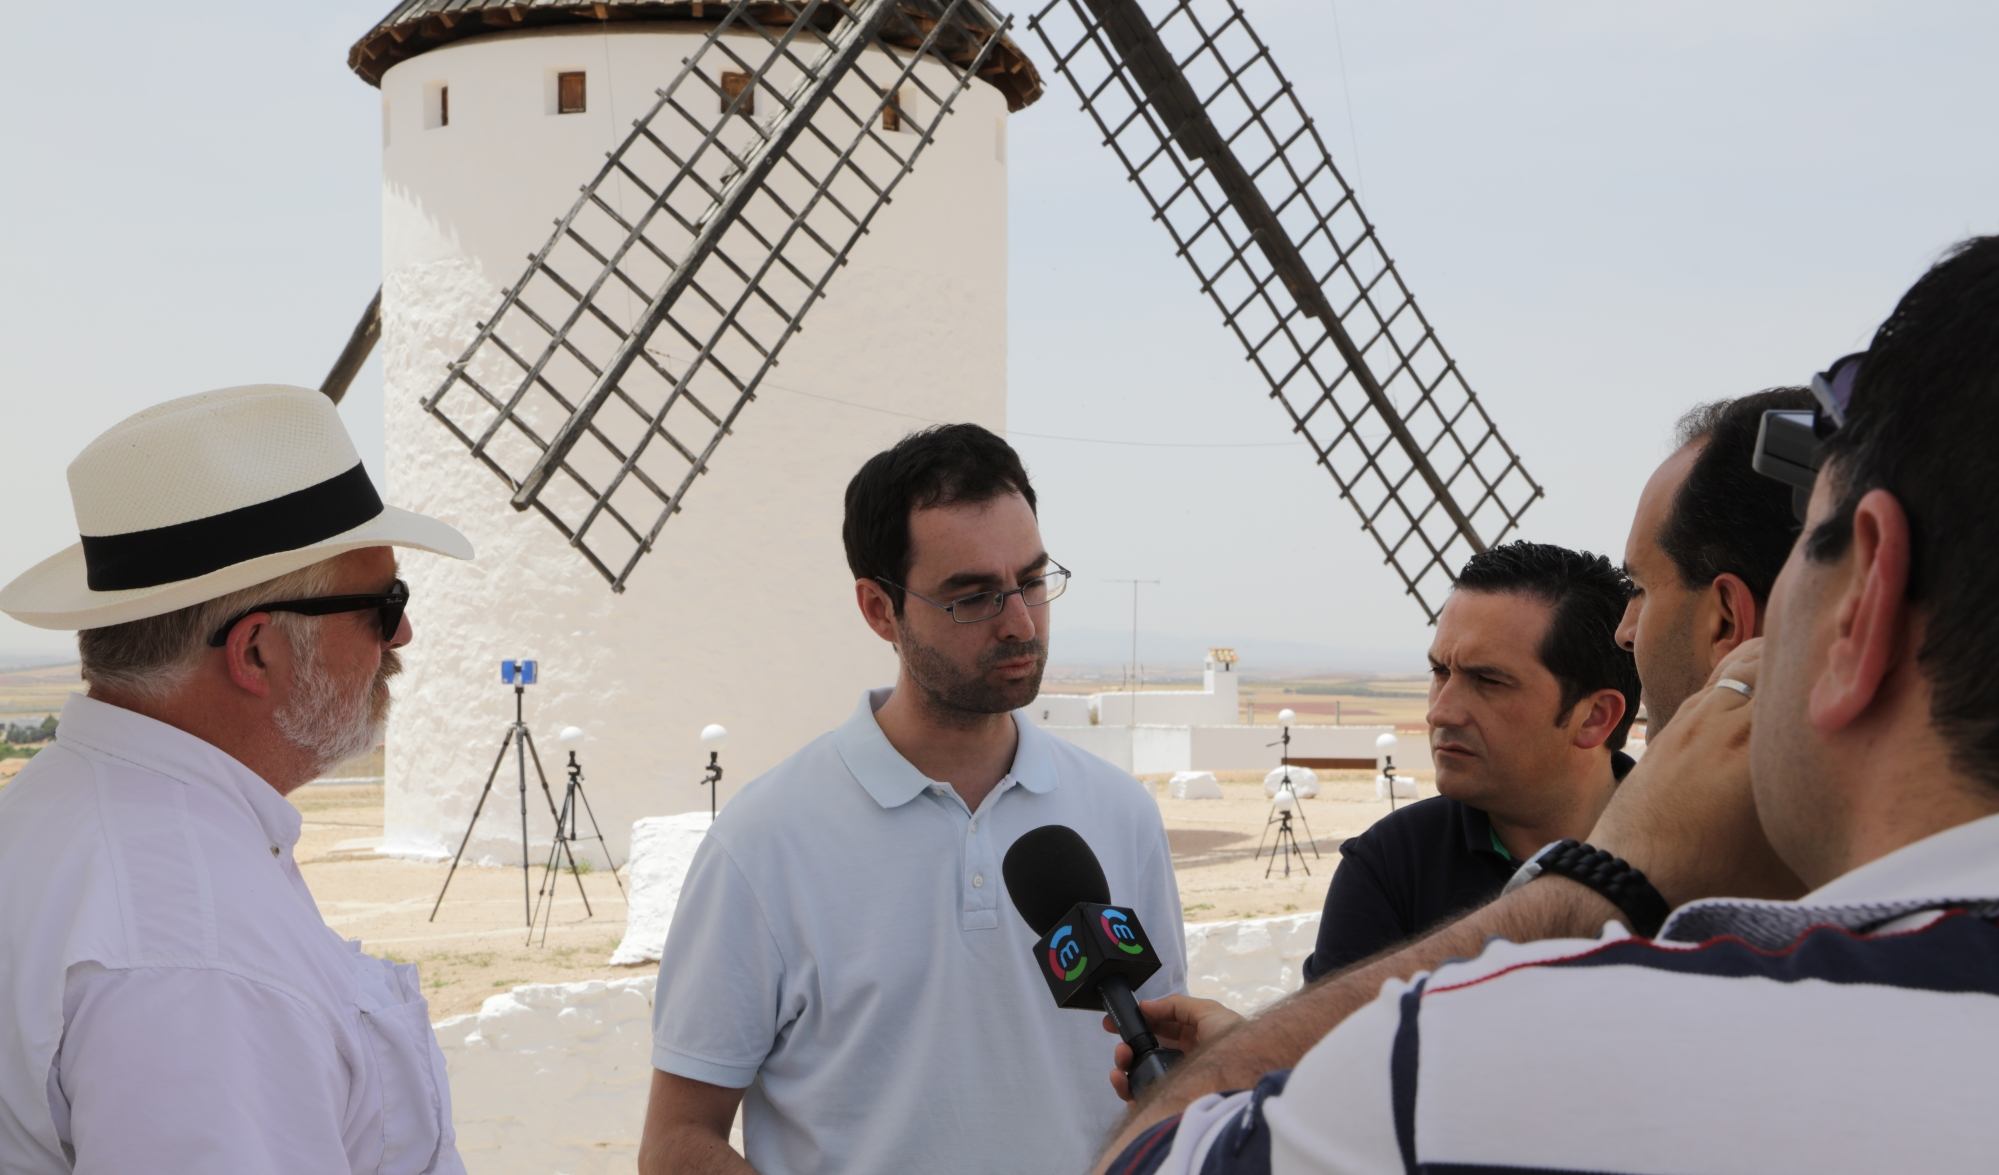
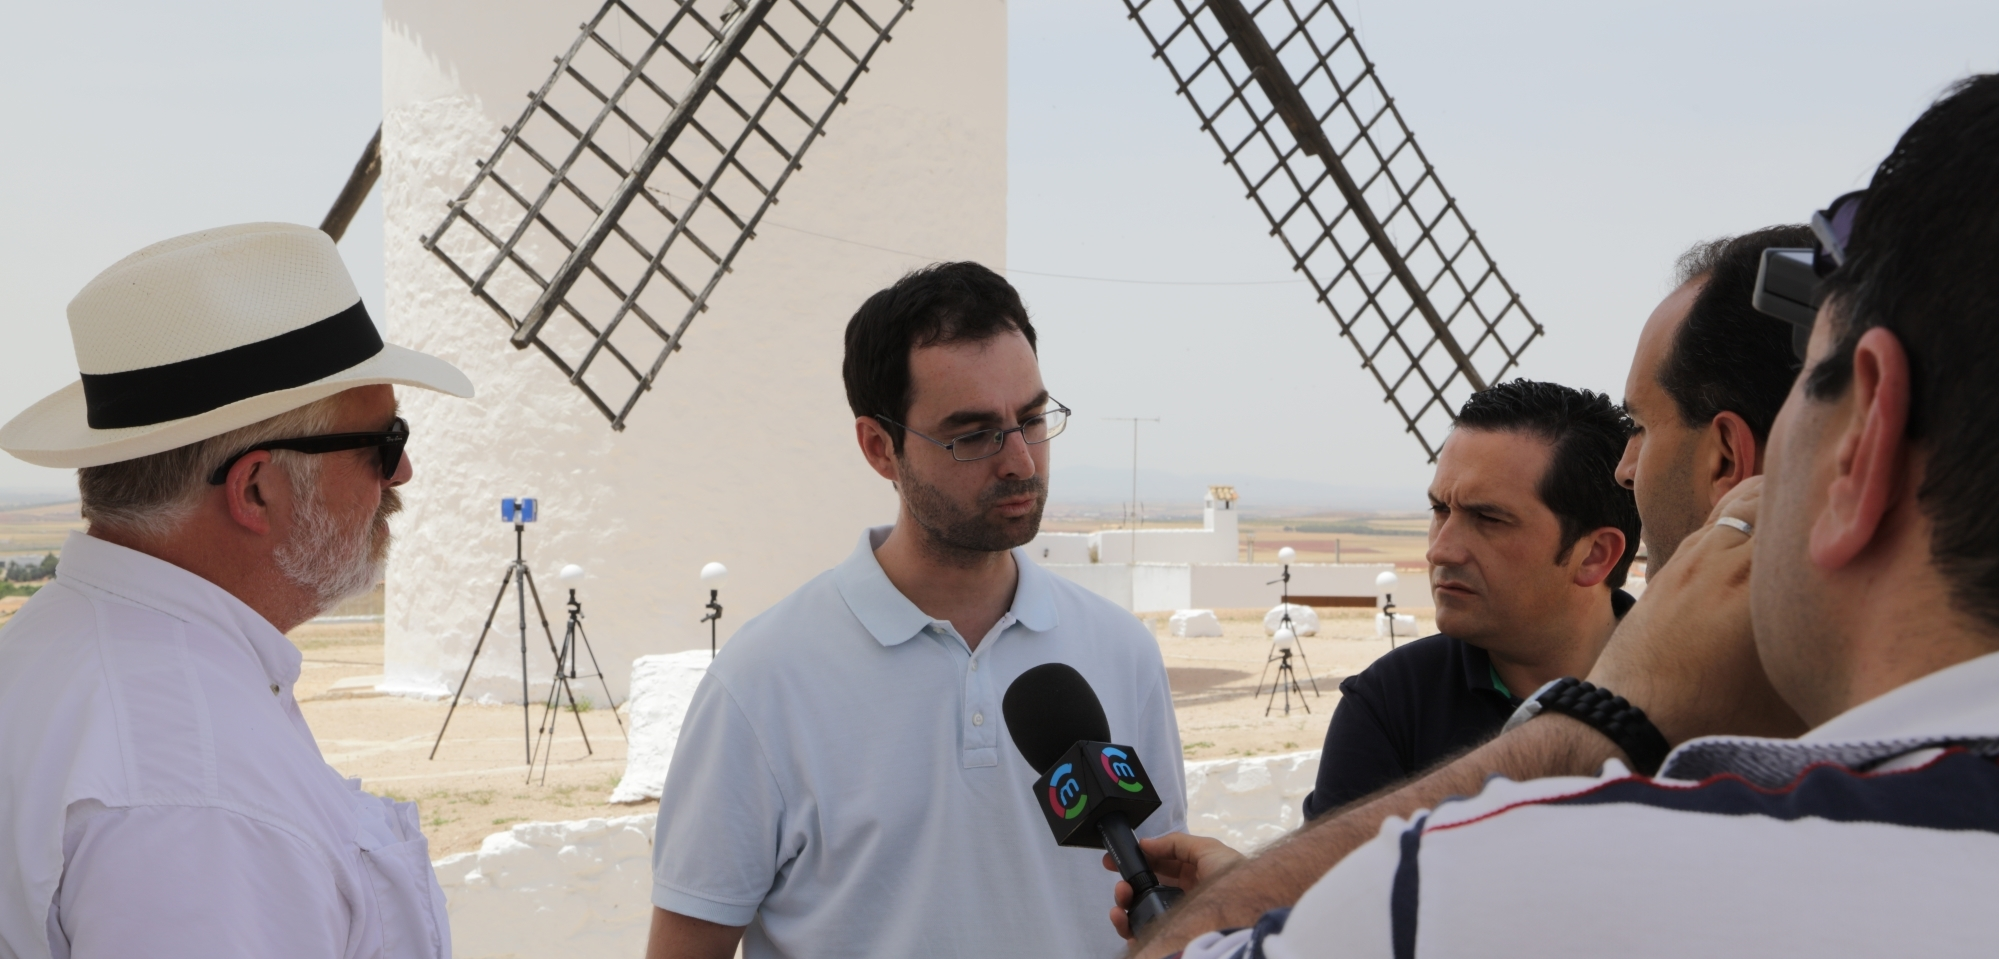
Ref #18 Image resizing

diff --git a/cvast_arches/cvast_arches/media/css/main_cvast.css b/cvast_arches/cvast_arches/media/css/main_cvast.css
@@ -19,7 +19,8 @@
 .background-image {
     /*width: 100vw;*/
     background-size: cover;
-    height: 90vh;
+    /*height: 90vh;*/
+    height: 650px;
 }
 
 blockquote p {
